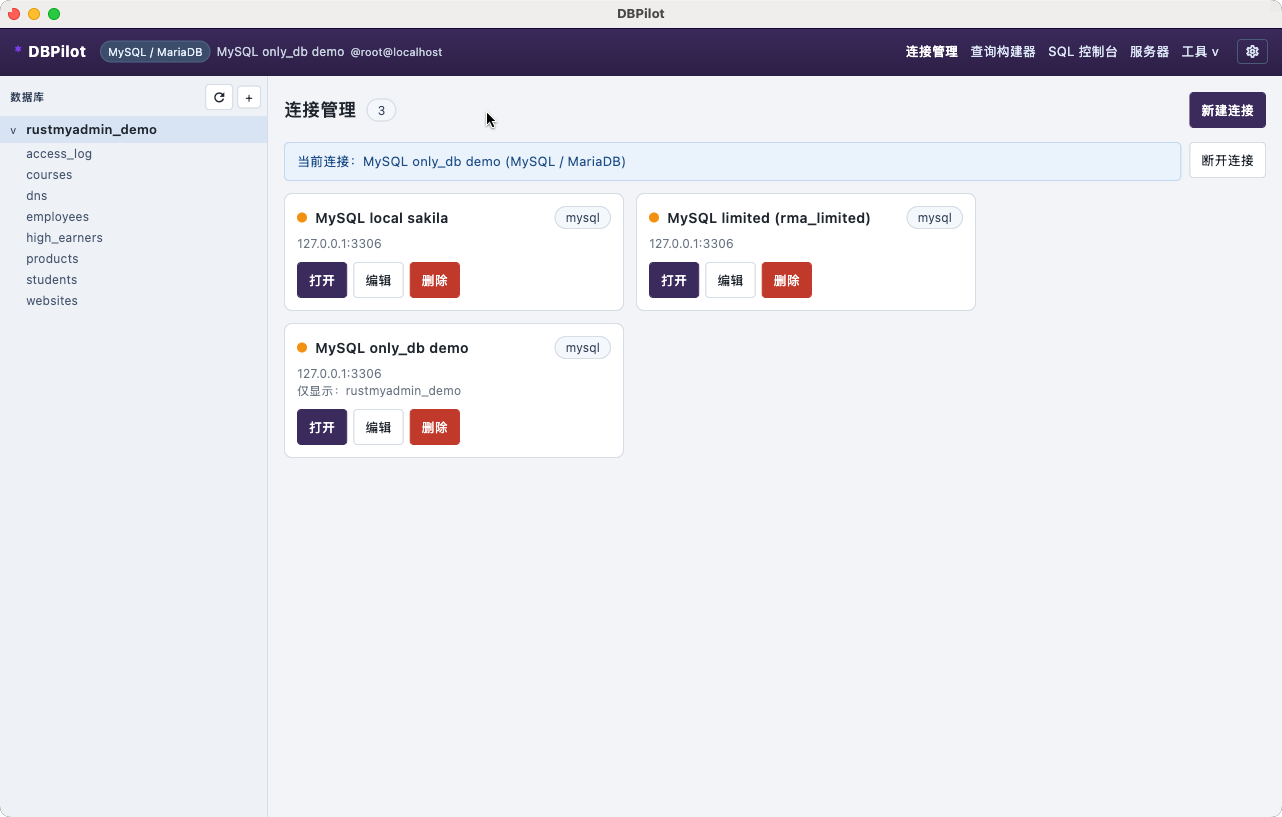
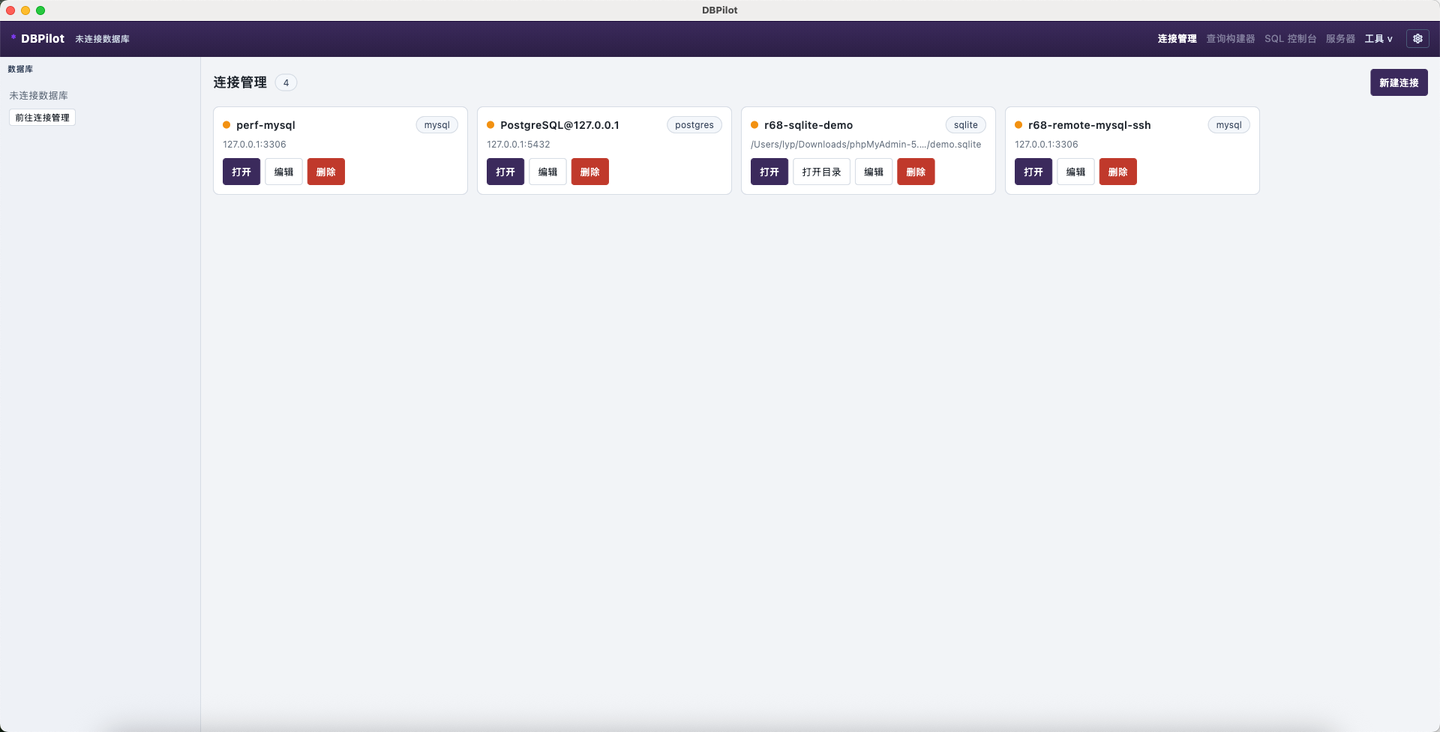
docs: 更新项目介绍截图（当前应用现场截图）+ 校正测试基线数字
- 重新截取 7 张应用截图（连接管理/对象浏览/表浏览/表设计/查询构建器/导入向导/设置），替换历史截图
- 校正 README 测试基线：flutter test 958 passed/20 skipped；cargo test dbpilot-core 41 + rust_myadmin_core 282 passed/2 ignored
- 构建示例版本号 1.0.0 -> 1.1.4

diff --git a/README.md b/README.md
@@ -266,7 +266,7 @@ flutter build linux   --release   # build/linux/x64/release/bundle/
 
 # Linux 三种安装包（AppImage / deb / rpm，本地与 CI 共用同一份脚本）
 # 依赖：apt install -y file libfuse2 rpm zstd desktop-file-utils，另需 appimagetool
-VERSION=1.0.0 bash packaging/linux/build-packages.sh
+VERSION=1.1.4 bash packaging/linux/build-packages.sh
 ```
 
 Rust 部分由 cargokit 在 `flutter build` 内部自动触发，产物落在 `build/` 下，不复用 `rust/target`。
@@ -296,7 +296,7 @@ make rust-live-down # 停库并删卷
 live 套件的端点全部来自环境变量 `DBPILOT_TEST_MYSQL_*` / `DBPILOT_TEST_PG_*`，
 仓库里不含任何账号密码；详见 [docs/CI_LIVE_TESTS.md](docs/CI_LIVE_TESTS.md)。
 
-当前基线：`dart analyze` 0 issue、`flutter test` 380 passed + 11 skip、`cargo test` 183 passed / 17 ignored。
+当前基线：`dart analyze` 0 issue、`flutter test` 958 passed / 20 skipped、`cargo test`（dbpilot-core 41 + rust_myadmin_core 282 passed / 2 ignored）。
 
 **常见构建坑**
 
